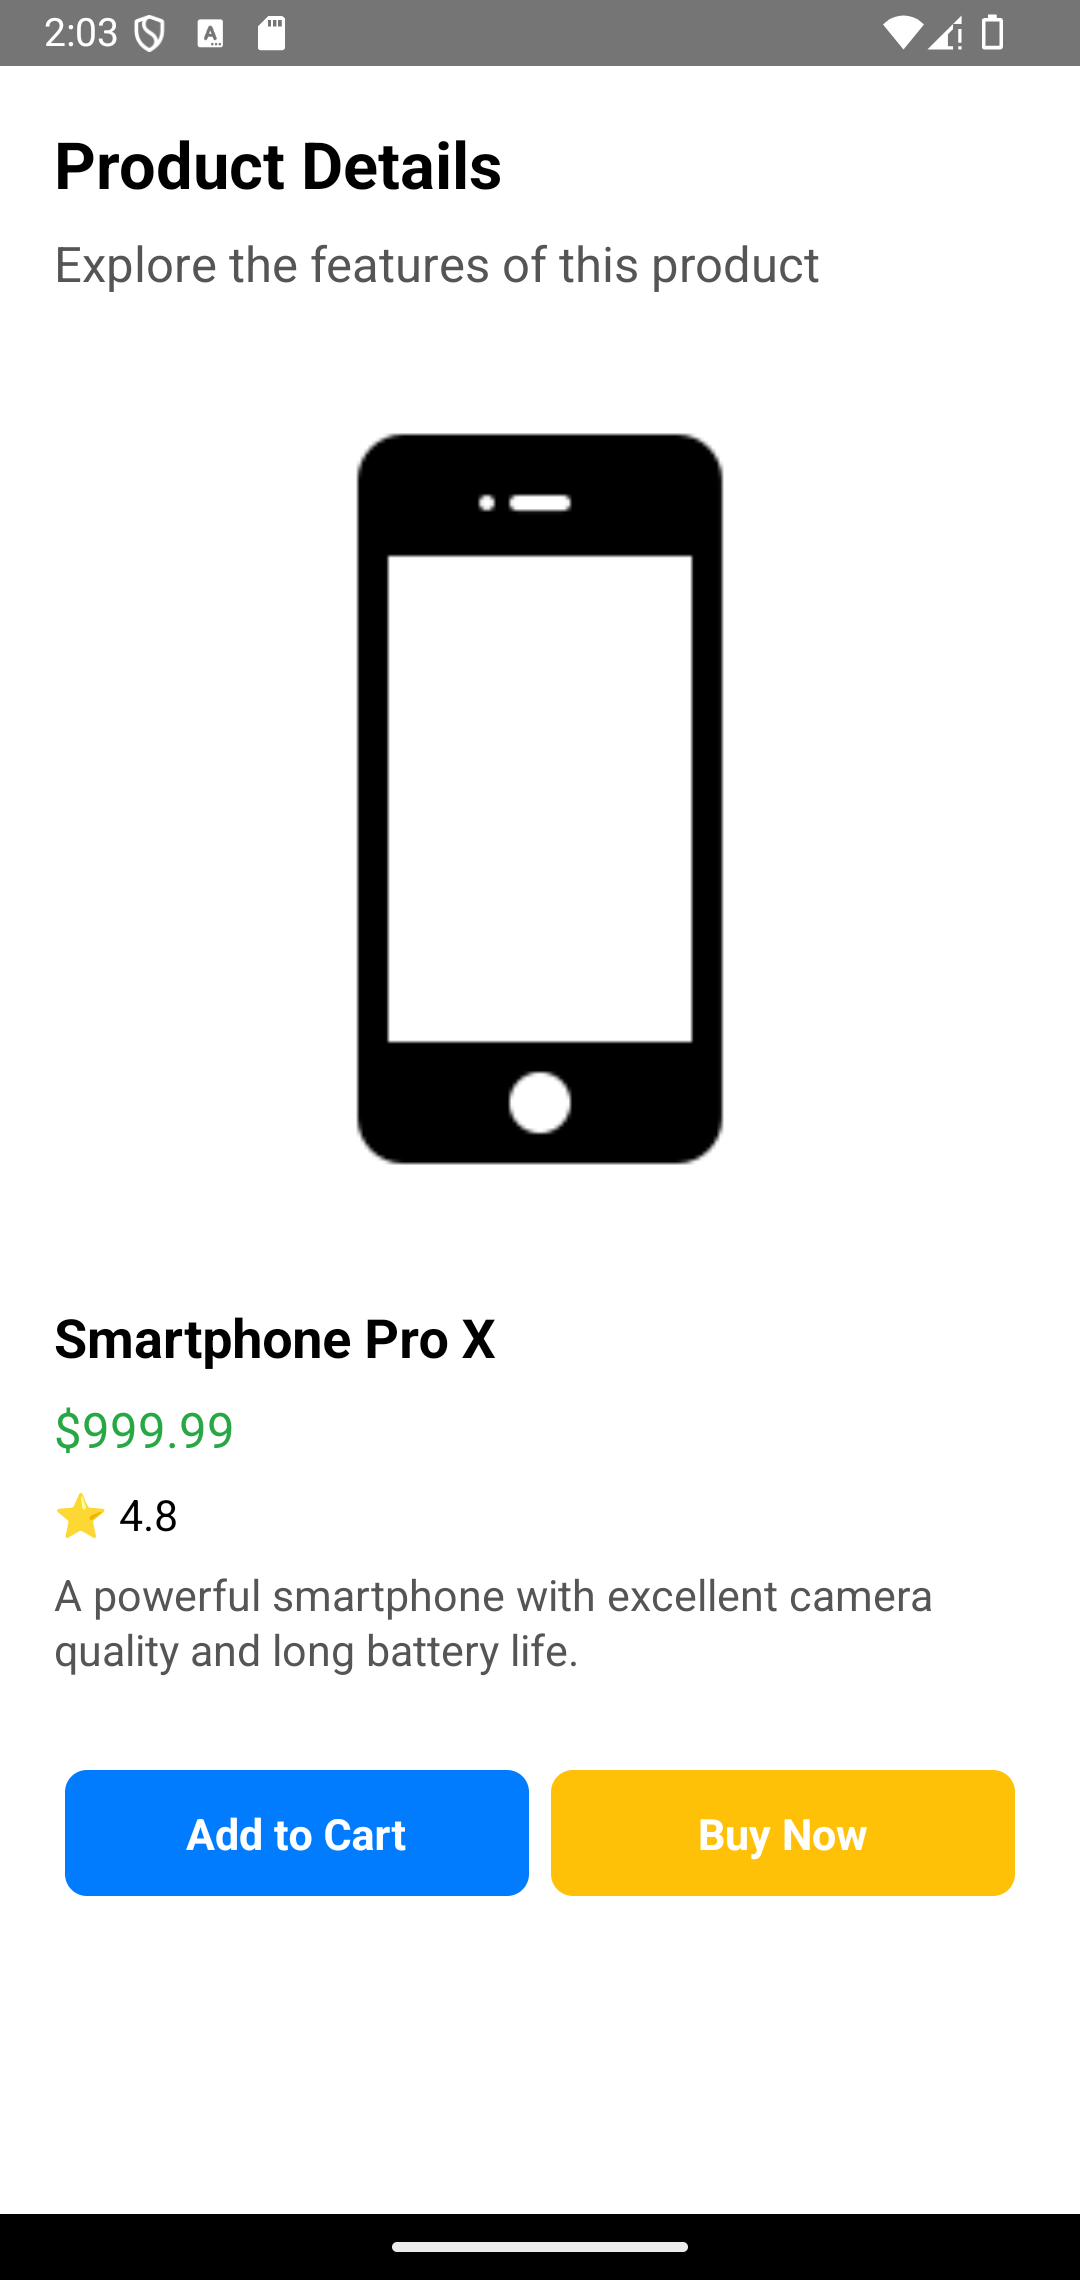
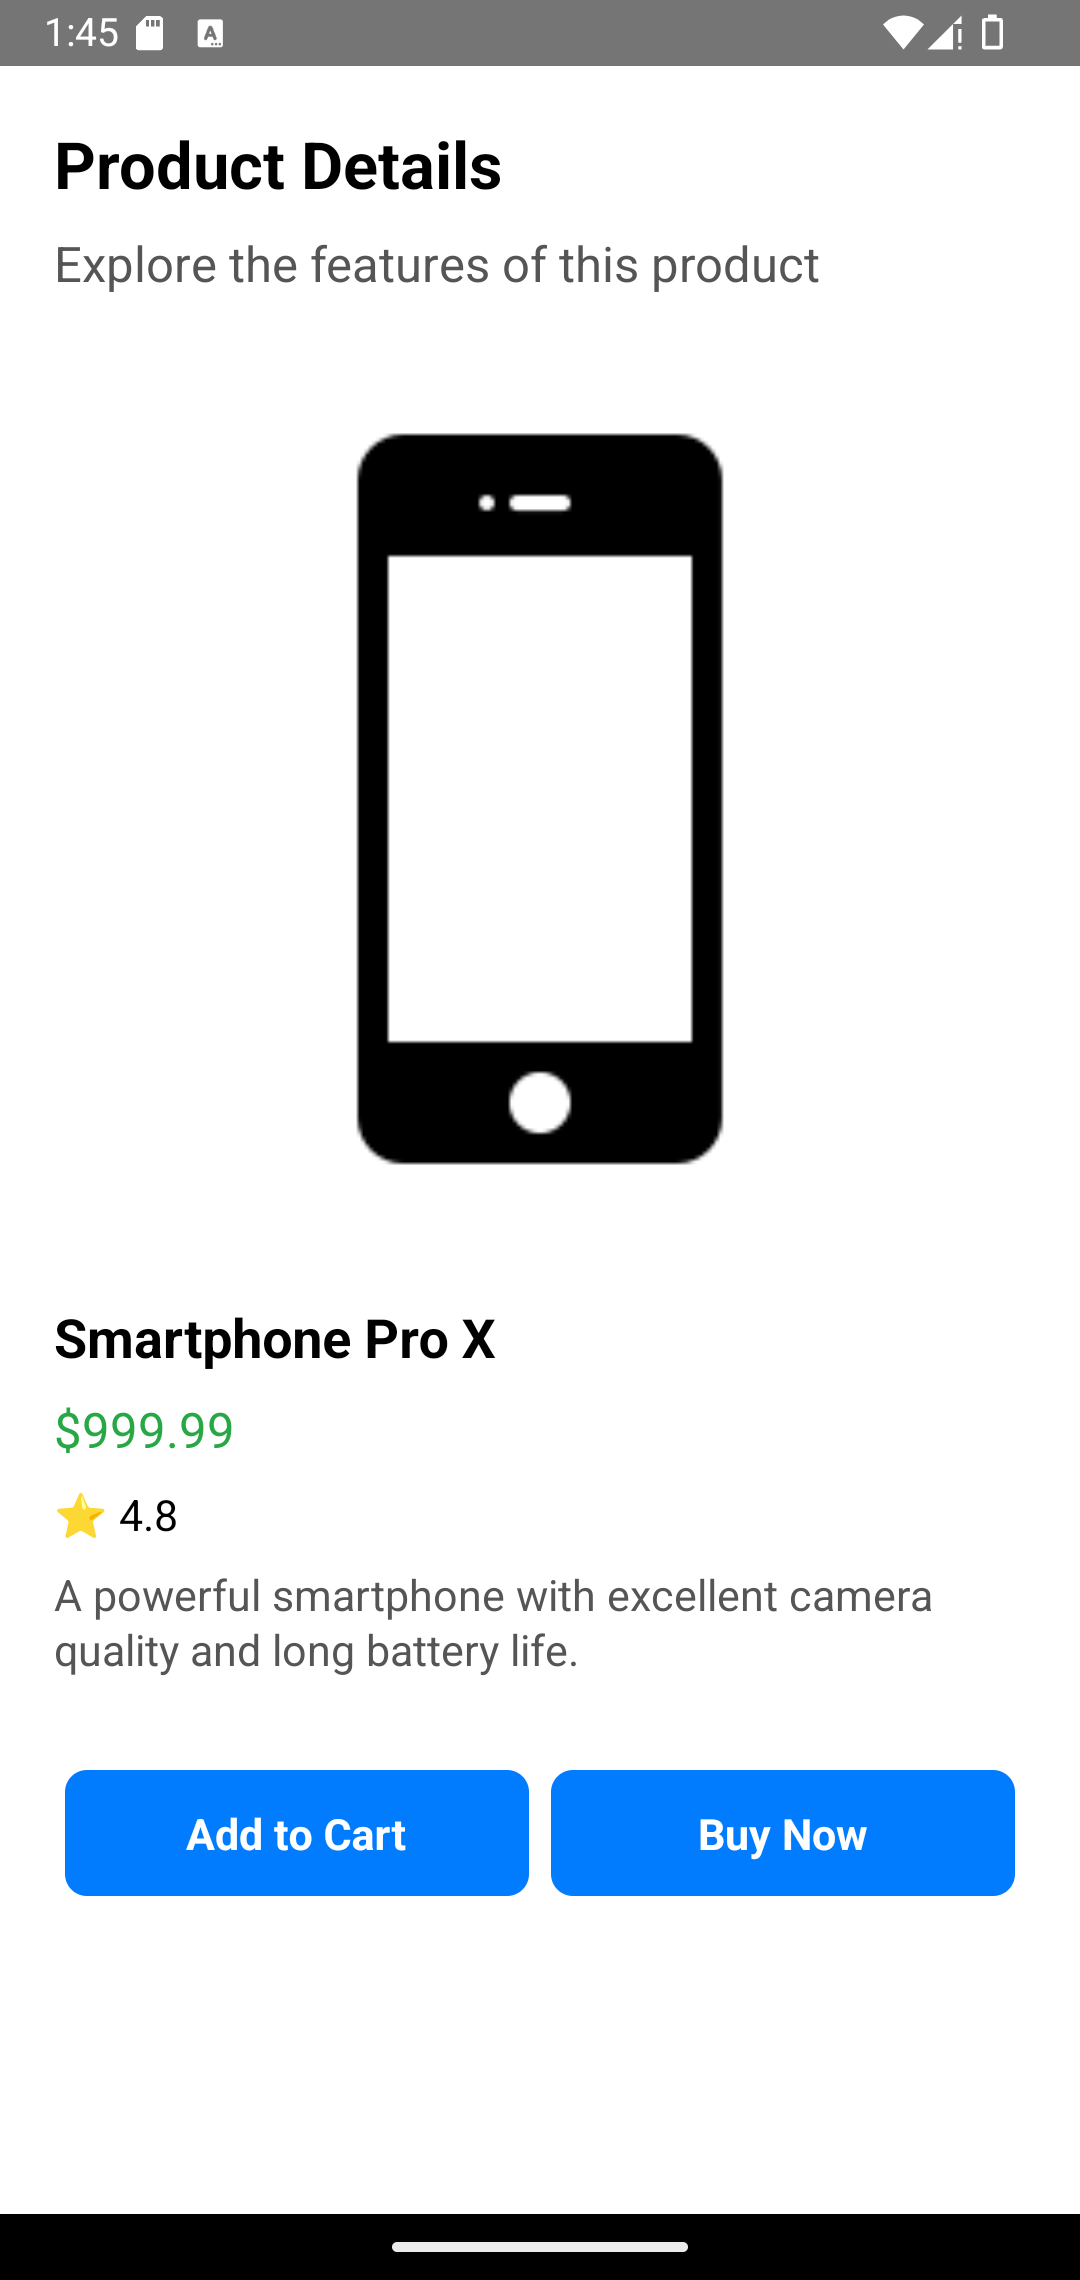
Adding portuguese picture to ProductDetail

Changed region(s): [[0.4889, 0.7785, 0.9472, 0.8408], [0.0306, 0.0, 0.1528, 0.0311], [0.2444, 0.0, 0.275, 0.0311]]

diff --git a/README-pt.md b/README-pt.md
@@ -110,7 +110,7 @@ Clique na imagem para visualizar a documentação do componente.
     <td align="center">
       <a href="Docs/Portuguese/Usage/ProductDetail.md">
         <strong>Detalhes do Produto</strong><br/>
-        <img src="https://raw.githubusercontent.com/Danilo-Js/react-native-ecommerce-components/main/Docs/Images/ProductDetail.png" alt="ProductDetail" width="300"/>
+        <img src="https://raw.githubusercontent.com/Danilo-Js/react-native-ecommerce-components/main/Docs/Images/ProductDetailpt.png" alt="ProductDetail" width="300"/>
       </a>
     </td>
   </tr>

diff --git a/Docs/Portuguese/Usage/ProductDetail.md b/Docs/Portuguese/Usage/ProductDetail.md
@@ -9,7 +9,7 @@ O componente **ProductDetail** exibe informações detalhadas sobre um produto e
 <table>
   <tr>
     <td><strong>Detalhes do Produto</strong></td>
-    <td><img src="../../Images/ProductDetail.png" alt="ProductDetail" width="200"/></td>
+    <td><img src="../../Images/ProductDetailpt.png" alt="ProductDetail" width="200"/></td>
   </tr>
 </table>
 
